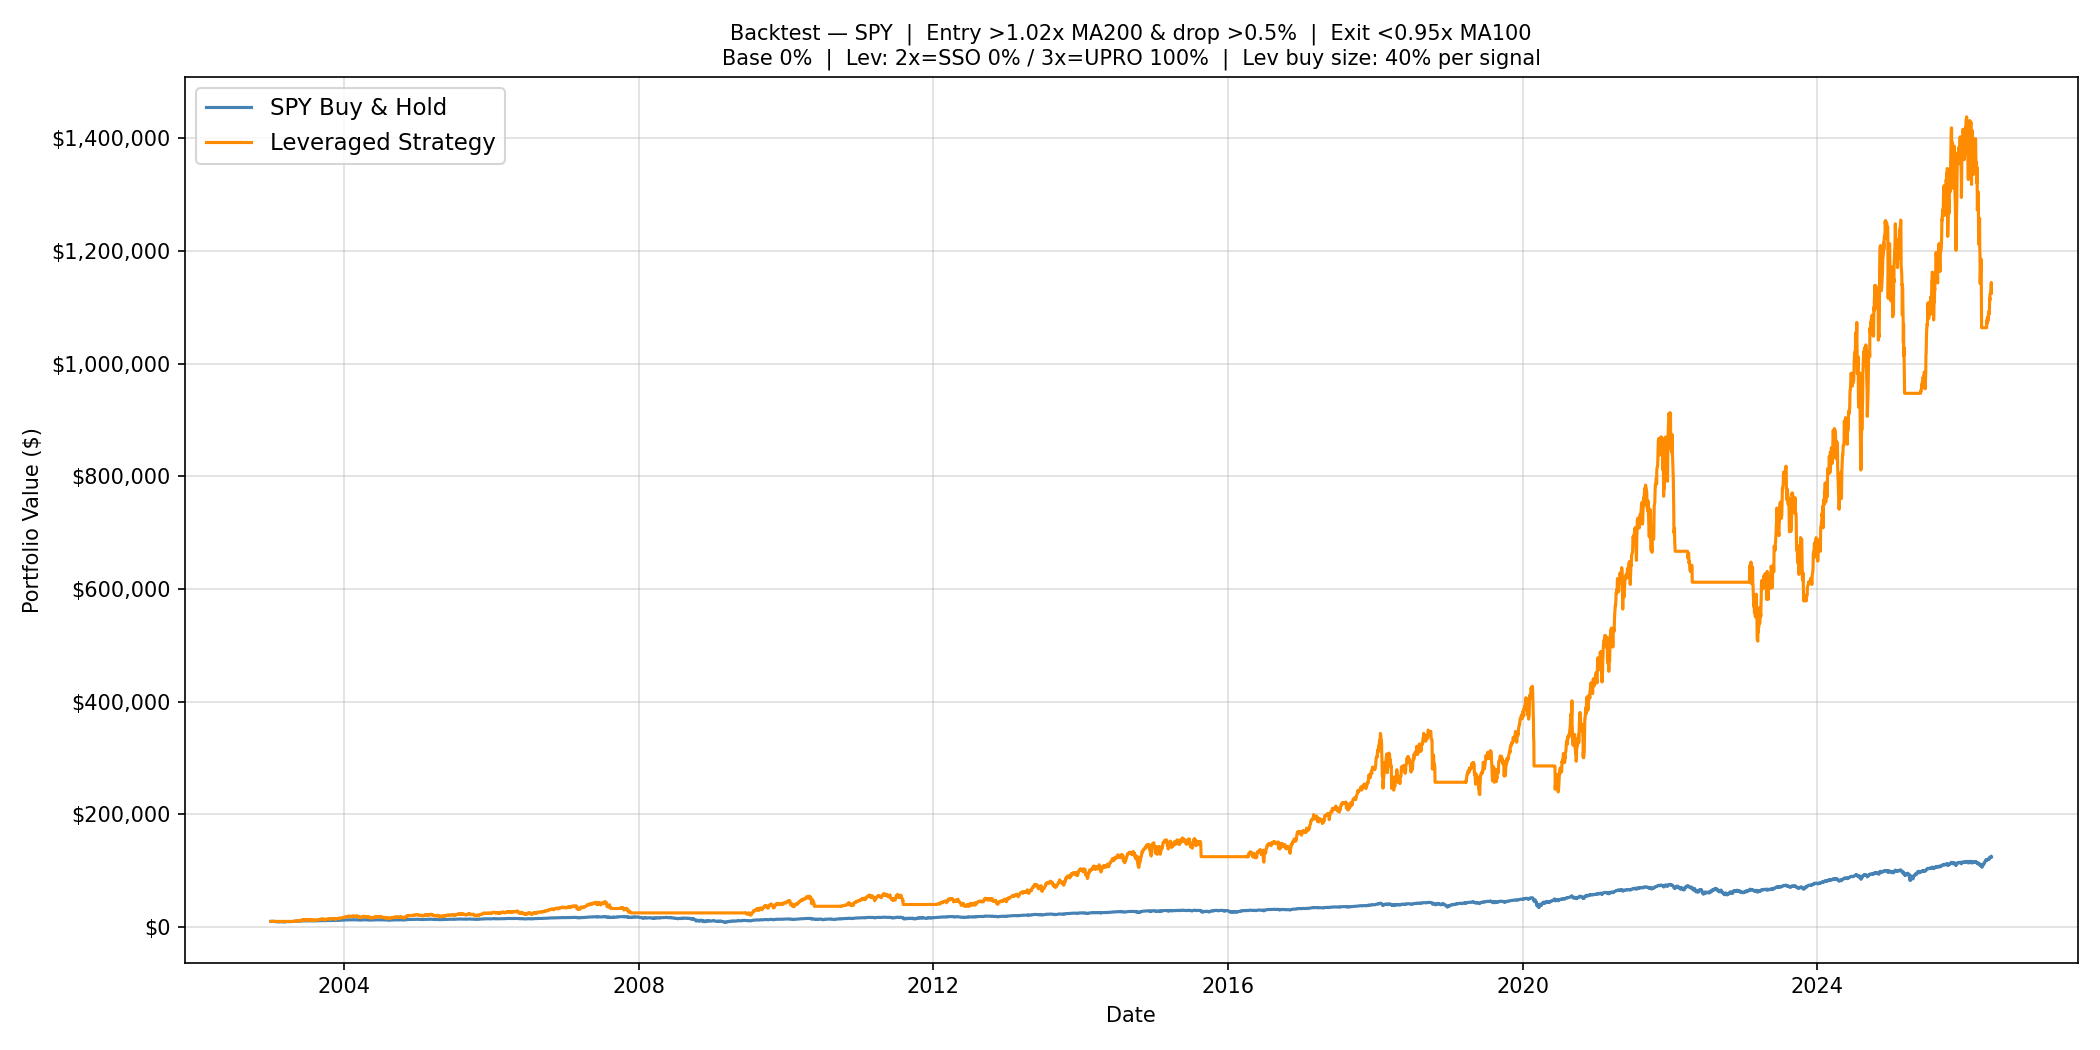
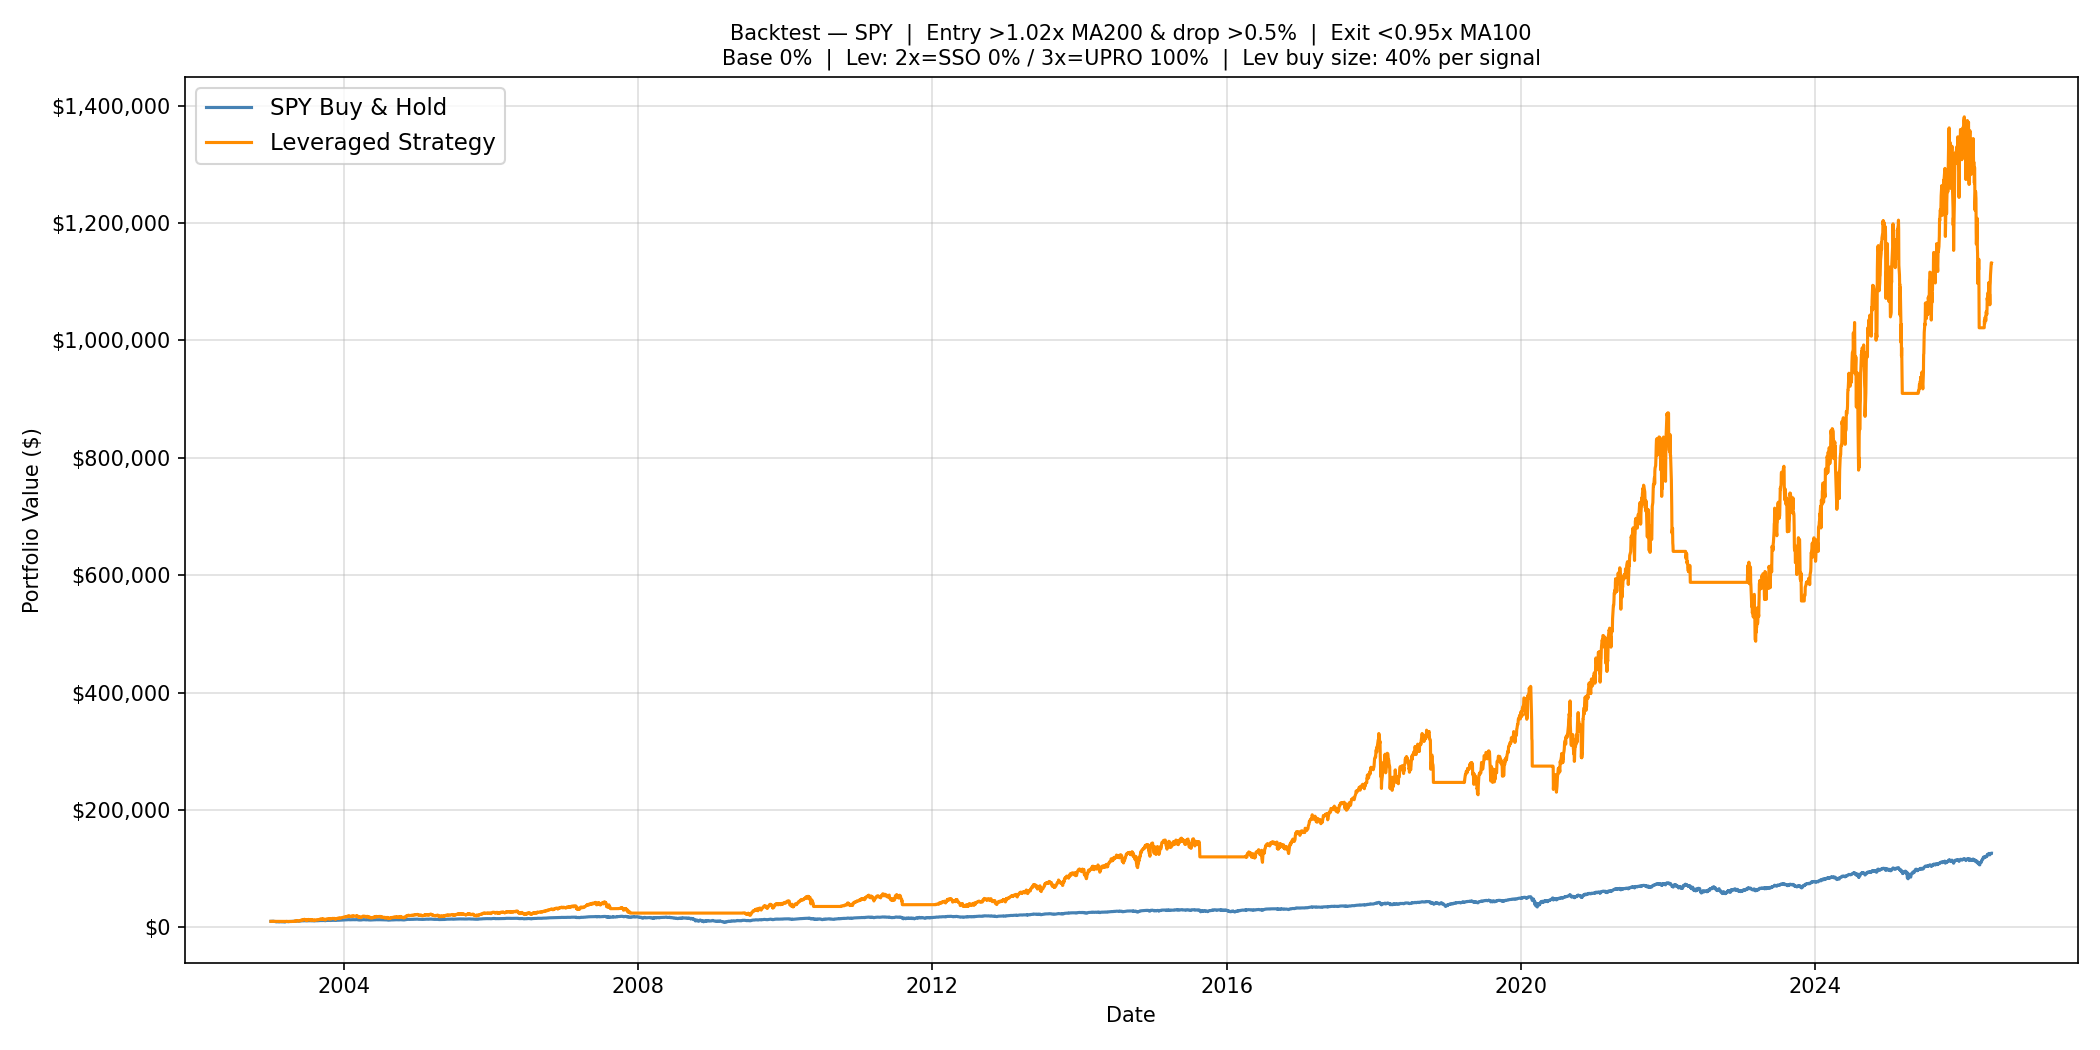
Recommended Configurations: add full-history CAGR + re-optimization guidance
Restructured the section for publication-ready clarity:

- New "What the two CAGR numbers mean" preamble explaining the
  difference between full-history (in-sample, hindsight upper bound)
  and walk-forward (realistic forward expectation) CAGR. Notes that
  the two are not directly period-matched and explains why walk-forward
  can be higher than full-history (different start years + adaptive
  re-opt).

- Each variant table now shows both metrics side by side:
    QQQ Highest CAGR:   Full-history 24.48%  |  Walk-forward 27.26%
    QQQ Balanced:       n/a                  |  Walk-forward 23.10%
    SPY MA100 (rec):    Full-history 22.40%  |  Walk-forward 21.92%
    SPY MA200 (legacy): Full-history 21.98%  |  Walk-forward 20.14%

- Separated "live trading params" into its own table per variant
  (entry/drop/exit/buy/base%/2x%/3x%) so reader can copy directly.

- Explicit per-index re-optimization guidance:
  - QQQ: annual re-opt REQUIRED (without it: -2pp CAGR + worse worst year)
  - SPY: annual re-opt OPTIONAL (params structurally stable; main benefit
    is updated worst-year picture, not new param discovery)
  - Both include exact `walkforward.py` commands and ~30 min runtime note

- Regenerated SPY MA100 full-history backtester outputs to capture
  max DD and Sharpe in current summary format (52.61% max DD, 0.78
  Sharpe added).

diff --git a/README.md b/README.md
@@ -31,41 +31,91 @@ This paper documents the design and validation of a leveraged-ETF dip-buy strate
 
 ## Recommended Configurations
 
-> Each variant is fully walk-forward validated over 2014–2025. **Params shown are from the most recent walk-forward year (2025).** The strategy is re-optimized annually — under annual re-opt the exact params shift modestly year to year, but the walk-forward CAGR/worst-year/max-DD numbers reflect the full 12-year operating performance, not a single year's params. → [§6](#6-results--walk-forward-validation), [§10](#running-the-walk-forward)
+### What the two CAGR numbers mean
+
+The performance tables below report two CAGR figures for each variant. They measure different things; both are reported because both are useful:
+
+- **Full-history CAGR (2003–2026, 23 years).** A single best parameter set was found by running the optimizer on the *entire* historical sample and picking the highest-CAGR combo. The same params were then applied to the same data. This is the **in-sample, hindsight-optimized upper bound** — it answers "what would the best params have produced if we'd known them in advance?" It is not a realistic forward expectation; live trading cannot use future data.
+- **Walk-forward CAGR (2014–2025, 12 years).** Each January, the optimizer is re-run on all prior data only, and the resulting params are applied to the next year. Repeated for 12 years. This is the **realistic forward expectation** — what an investor running the strategy honestly would have achieved with no look-ahead. Anchor your expectations here.
+
+The walk-forward CAGR is sometimes higher than the full-history CAGR (as for QQQ: 27.26% vs 24.48%), which seems counterintuitive. Two reasons: (a) the walk-forward period starts in 2014 — a more bullish 12 years than the 2003–2014 leg of the full sample, so the underlying B&H benchmark is also higher; and (b) annual re-optimization adapts to evolving regimes in ways that a single full-sample optimum cannot. The two numbers are not directly period-matched — read them as separate things, not delta-against-each-other.
+
+---
 
 ### QQQ — pick one of two variants
 
-| Variant | Entry | Drop | Exit | Buy% | Base% | 2× % | 3× % (TQQQ) | Walk-forward CAGR | Worst year | Max DD | Final ($10K) |
-|---|---|---|---|---|---|---|---|---|---|---|---|
-| **Highest CAGR** (recommended for return) | **1.06×MA200** | **0.5%** | **1.00×MA200** | 40% | 0% | 0% | **100%** | **27.26%** | −25.91% (2022) | −64.9% | **$180,025** |
-| **Balanced** (smoother drawdown, opt-in) | **1.05×MA200** | **1.0%** | **1.00×MA200** | 40% | 0% | 0% | **100%** | 23.10% | −25.52% (2022) | **−44.75%** | $120,928 |
+| Variant | Full-history CAGR (2003–2026) | Walk-forward CAGR (2014–2025) | Worst year | Max DD | Walk-forward final ($10K → ) |
+|---|---|---|---|---|---|
+| **Highest CAGR** (default) | 24.48% | **27.26%** | −25.91% (2022) | −64.9% | **$180,025** |
+| **Balanced** (opt-in tie-break) | n/a¹ | 23.10% | −25.52% (2022) | **−44.75%** | $120,928 |
 
-- **Default is the Highest CAGR variant** (plain top-CAGR rule). Run with `python walkforward.py --preset QQQ`.
-- **Balanced variant** uses the tie-break rule: from combos within 1pp training CAGR of the leader, pick the one with the lowest worst calendar year. Run with `python walkforward.py --preset QQQ --tie-tolerance 0.01`.
-- The 2025 params look similar between the two variants because both converged to 100% TQQQ in the latest year. The CAGR/DD gap comes from earlier walk-forward years where the tie-break rule preferred diversified allocations (QLD + base SPY). Full year-by-year schedule comparison: [§6.2](#62-qqq-tie-break-rule).
-- **The balanced variant trades 4pp CAGR for 20pp better max DD — but barely improves the worst calendar year.** Only enable if max DD smoothing matters to you more than terminal wealth.
+¹ The tie-break rule is applied per training window during walk-forward; it has no direct full-history equivalent.
+
+**Live trading params (most recent walk-forward year, 2025):**
+
+| Variant | Entry | Drop | Exit | Buy% | Base% | 2× % | 3× % (TQQQ) |
+|---|---|---|---|---|---|---|---|
+| Highest CAGR | 1.06×MA200 | 0.5% | 1.00×MA200 | 40% | 0% | 0% | **100%** |
+| Balanced | 1.05×MA200 | 1.0% | 1.00×MA200 | 40% | 0% | 0% | **100%** |
+
+> The 2025 params look nearly identical between variants because both converged to 100% TQQQ in the latest window. The walk-forward CAGR gap comes from **earlier** windows, where the Balanced rule preferred diversified allocations (10–20% base SPY, 25–75% QLD). Full year-by-year schedule comparison: [§6.2](#62-qqq-tie-break-rule).
+
+**Annual re-optimization: REQUIRED for QQQ.** Without it, expect a meaningful CAGR penalty.
+
+Evidence: a *fixed model* using 2003–2013 params frozen through 2025 produces **25.15% CAGR** versus **27.26%** for annually re-optimized (Highest CAGR variant). The fixed model also has a worse worst year (−35.5% vs −25.9% in 2022). → see [§6](#expanding-window-walk-forward-annual-re-optimization-20142025) three-way comparison.
+
+**How to re-optimize each January:**
+```bash
+# Highest CAGR (default)
+python walkforward.py --preset QQQ
+
+# Balanced (opt-in tie-break)
+python walkforward.py --preset QQQ --tie-tolerance 0.01
+```
+Computational cost: ~30 min per run. The new schedule replaces the old one in `results/walkforward/QQQ_param_schedule*.json`. Apply the latest year's params to the next 12 months of trading. See [§6.2 continuity-filter note](#62-qqq-tie-break-rule) for a sanity check before accepting a discontinuous param shift on QQQ.
+
+**Honest take on the variant choice:** the Balanced variant trades **4pp CAGR for 20pp better max DD — but the worst calendar year is essentially unchanged**. Only enable if max-DD smoothing matters to you more than terminal wealth. For most investors using annual review at year-end, the Highest CAGR variant is correct.
+
+---
 
 ### SPY — pick one of two variants
 
-| Variant | Entry | Drop | Exit | Buy% | Base% | 2× % | 3× % (UPRO) | Walk-forward CAGR | Worst year | Max DD | Final ($10K) |
-|---|---|---|---|---|---|---|---|---|---|---|---|
-| **Recommended (MA100 exit)** | **1.02×MA200** | **0.5%** | **0.95×MA100** | 40% | 0% | 0% | **100%** | **21.92%** | −31.78% (2022) | **−44.80%** | **$107,688** |
-| MA200 exit (legacy) | 1.02×MA200 | 0.5% | 0.97×MA200 | 40% | 0% | 0% | 100% | 20.14% | −37.09% (2022) | −57.87% | $90,307 |
+| Variant | Full-history CAGR (2003–2026) | Walk-forward CAGR (2014–2025) | Worst year | Max DD | Walk-forward final ($10K → ) |
+|---|---|---|---|---|---|
+| **Recommended (MA100 exit)** | 22.40% | **21.92%** | −31.78% (2022) | **−44.80%** | **$107,688** |
+| MA200 exit (legacy) | 21.98% | 20.14% | −37.09% (2022) | −57.87% | $90,307 |
 
-- **MA100 dominates MA200 on every axis** — higher CAGR, better worst year, better max DD, better Sharpe. No reason to use MA200 unless you specifically want backwards-compatibility with earlier versions. Full comparison: [§6.1](#61-ma100-vs-ma200-walk-forward).
-- Run the recommended config with `python walkforward.py --preset SPY --exit-ma 100`.
+**Live trading params (most recent walk-forward year, 2025):**
+
+| Variant | Entry | Drop | Exit | Buy% | Base% | 2× % | 3× % (UPRO) |
+|---|---|---|---|---|---|---|---|
+| Recommended (MA100) | 1.02×MA200 | 0.5% | 0.95×MA100 | 40% | 0% | 0% | **100%** |
+| MA200 (legacy) | 1.02×MA200 | 0.5% | 0.97×MA200 | 40% | 0% | 0% | **100%** |
+
+> MA100 dominates MA200 on every axis (higher CAGR, better worst year, better max DD, better Sharpe). No reason to use MA200 unless you specifically want backwards-compatibility with earlier versions. Full comparison: [§6.1](#61-ma100-vs-ma200-walk-forward).
+
+**Annual re-optimization: OPTIONAL for SPY** (lower benefit than for QQQ).
+
+Evidence: a *fixed model* using 2003–2013 params frozen through 2025 produces **19.89% CAGR** versus **21.92%** for annually re-optimized (MA100 variant). The CAGR uplift is real (~2pp) but smaller than for QQQ in relative terms. SPY's optimizer converges to nearly identical params each year, so the schedule is structurally stable — re-optimization mainly updates the worst-year risk picture rather than discovering new params.
+
+**How to re-optimize each January (recommended but not strictly required):**
+```bash
+# Recommended (MA100 exit)
+python walkforward.py --preset SPY --exit-ma 100
+```
+Computational cost: ~30 min. If you skip annual re-opt for SPY, you can safely run the strategy with the fixed 2014-onwards params (entry 1.01–1.02×MA200, drop 0.5%, exit 0.95×MA100, buy 40%, 100% UPRO) — every walk-forward year picked params in that cluster.
+
+---
 
 ### IWM — not recommended
 
 | Variant | Strict OOS CAGR (2015–2026) | IWM B&H | Edge | Result |
 |---|---|---|---|---|
-| Best train (2003–2014) params, frozen | 5.41% | 9.14% | **−3.73pp ✗** | Failed |
+| Best 2003–2014 train params, frozen | 5.41% | 9.14% | **−3.73pp ✗** | Failed OOS |
 
 IWM's small-cap volatility creates higher LETF decay, and the strategy's training-period params did not generalize to 2015–2026. Treated as speculative; not part of any live recommendation. → [§6](#out-of-sample-test-20152026-11-years-genuinely-unseen)
 
 ---
-
-**Operating mode (all live configs):** re-optimize each January on all prior data using `walkforward.py`. The schedule shifts modestly year to year but the long-run walk-forward numbers above reflect this re-optimization throughout the 12-year window. Computational cost ~30 min per preset.
 
 **Drawdown filter (all configs):** calendar-year worst ≥ −40%. Deliberate design choice — see [§9](#9-risk-considerations--design-honesty) for the cost-benefit of tighter alternatives.
 
